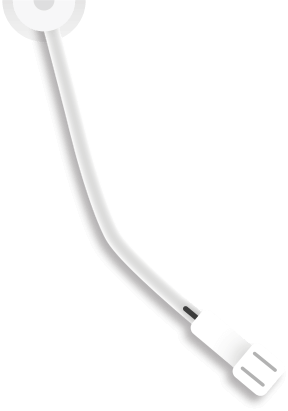
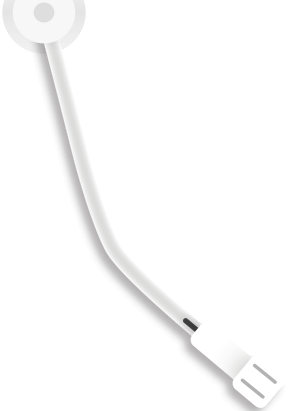
add lyric auto scroll in player page

Changed region(s): [[0.0938, 0.0, 0.9688, 1.0]]

diff --git a/src/player/player.js b/src/player/player.js
@@ -13,21 +13,59 @@ let view = {
     this.dom = document.querySelector(this.el);
   },
   render (data) {
-    let { name = '', singer = '', cover = '#', url = '#' } = data;
+    let { name = '', singer = '', cover = '#', url = '#', lyric='' } = data;    
     this.dom.querySelector('#blurBg').style = `background-image: url(${cover});`;
     this.dom.querySelector('img.pointer').src = imageNeedle;
     this.dom.querySelector('img.ring').src = imageDisc;
     this.dom.querySelector('img.light').src = imageDiscLight;
     this.dom.querySelector('img.cover').src = cover;
     this.dom.querySelector('.song-description>h1').textContent = name + '-' + singer;
+    let regex = /\[([\d :：.  ]+)\](.+)/i;
+    let lyricPDoms = lyric.split('\n').map(content => {
+      let p = document.createElement('p');
+      let matches = content.match(regex);
+      if (matches) {
+        let timeParts = matches[1].split(/[:：]{1}/);
+        let secondsFormat = (timeParts[0] - 0)*60 + (timeParts[1]-0);
+        p.setAttribute('data-time', secondsFormat);
+        p.textContent = matches[2];
+      } else {
+        p.textContent = content;
+      }
+      return p;
+    });
+    this.lyricDom = this.lyricDom || this.dom.querySelector('.lyric>.lines');
+    lyricPDoms.forEach(p => {
+      this.lyricDom.appendChild(p);
+    })
     this.audioDom = this.audioDom || this.createAudio(url);
     this.discContainerDom = this.dom.querySelector('#discContainer');
   },
   createAudio (url) {
     let audio = document.createElement('audio');
     audio.src = url;
+    // audio.setAttribute('controls', 'controls')
     document.body.appendChild(audio);
     return audio;
+  },
+  showLyricBy (time) {
+    this.lyricPDoms = this.lyricPDoms || this.dom.querySelectorAll('.lyric>.lines>p');
+    for (let i = 0; i < this.lyricPDoms.length; i++) {
+      const currentP = this.lyricPDoms[i];
+      const nextP = this.lyricPDoms[i + 1] || { hasError: true, dataset: { time: 24*60*60}};
+      let dataTime = currentP.dataset.time - 0;
+      let nextTime = nextP.dataset.time - 0;
+      if (nextP.hasError || dataTime <= time && time < nextTime) {
+        if (this.activeLyricP === currentP) { return; }
+        this.preLyricP = nextP.hasError ? currentP : this.lyricPDoms[i - 1] || currentP; 
+        this.activeLyricP = currentP;
+        break;
+      }
+      this.preLyricP && this.preLyricP.classList.remove('active');
+      this.activeLyricP.classList.add('active');
+      let moveY = this.preLyricP.offsetTop - this.lyricDom.offsetTop;
+      this.lyricDom.style.transform = 'translateY(' + (-moveY) + 'px)';
+    }
   },
   play () {
     this.audioDom = this.audioDom || this.dom.querySelector('audio');
@@ -45,7 +83,7 @@ let model = {
   init () {
     this.data = { 
       song: {
-        id:'', name: '', singer: '', url: '', cover: ''
+        id:'', name: '', singer: '', url: '', cover: '', lyric: ''
       },
       status: 'paused'
     };
@@ -77,6 +115,14 @@ let controller = {
   bindEvents() {
     this.view.dom.querySelector('.icon-wrapper').addEventListener('click', e => { 
       this.toggleMusic();
+    });
+    this.view.audioDom.addEventListener('ended', e => {
+      this.view.pause();
+      this.model.data.status = 'paused';
+    });
+    this.view.audioDom.addEventListener('timeupdate', e => {
+      let currentTime = e.currentTarget.currentTime;
+      this.view.showLyricBy(currentTime);
     });
   },
   initSongToView (callback) {

diff --git a/src/admin/song-form.js b/src/admin/song-form.js
@@ -31,17 +31,23 @@ let view = {
             <input name="url" type="text" value="{{url}}">
           </label>
         </div>
+        <div class="row">
+          <label>
+            歌词
+            <textarea name="lyric"cols="30" rows="10">{{lyric}}</textarea>
+          </label>
+        </div>
         <div class="row action">
           <button type="submit">保存</button>
         </div>
       </form>
     </div>
   `,
-  init() {
+  init(data) {
     this.dom = document.querySelector(this.el);
-    this.render();
+    this.render(data);
   },
-  render(data = [{ name: '', singer: '', url: '', cover: '' }]) {
+  render(data = [{ name: '', singer: '', url: '', cover: '', lyric:'' }]) {
     data = Array.isArray(data) ? data : [data];
     let html = '';
     data.forEach((song) => {
@@ -84,15 +90,15 @@ let view = {
 };
 
 let model = {
-  data: { name: '', singer: '', url: '', cover: '' },
   init() {
     this.isCreate = true;
     this.Song = AV.Object.extend("Song");
-    this.unsavedFileCount = 0;
+    this.resetData({});
   },
   resetData (data) {
-    this.data = { name: '', singer: '', url: '', cover: '' };
+    this.data = { name: '', singer: '', url: '', cover: '', lyric: '' };
     Object.assign(this.data, data);
+    this.unsavedFileCount = 0;
   },
   create(data) {
     let song = new this.Song();
@@ -134,8 +140,8 @@ let controller = {
   init(view, model) {
     this.view = view;
     this.model = model;
-    this.view.init();
     this.model.init();
+    this.view.init(this.model.data);
     this.formType = 'new';
     this.bindEvents();
     this.bindEventHub();

diff --git a/src/player/player.less b/src/player/player.less
@@ -56,8 +56,8 @@
   align-items: center;
   height: 14vw;
   width: 14vw;
-  background: #1f1e1e;
-  box-shadow: 0px 10px 13px -7px #000000, inset 0px 0px 25px 17px rgba(0,0,0,0.45);
+  background: #343434;
+  box-shadow: inset 0px 0px 17px 19px #000;
   border-radius: 50%;
   // border: 1px solid white;
   .icon {
@@ -68,8 +68,17 @@
 .disc-container .pointer {
   width: 24vw;
   position: absolute;
+  top: -1.1%;
   left: 45vw;
   z-index: 1;
+  transform-origin: 15.69% 0;
+  transform: rotate(-25deg);
+  transition: all .4s;
+}
+.disc-container.playing {
+  .pointer {
+    transform: none;
+  }
 }
 .disc-container .disc {
   display: flex;
@@ -123,7 +132,7 @@
   line-height: 24px;
 }
 .song-description .lines {
-  transition: transform 0.3s;
+  transition: all 0.8s;
 }
 .song-description .lyric {
   height: 72px;

diff --git a/src/index/page-one-playlists.js b/src/index/page-one-playlists.js
@@ -1,5 +1,13 @@
 let view = {
   el: '.page-1 > section.playlists',
+  template: `
+  <li>
+    <div class="cover">
+      <img width=105 src="https://i.loli.net/2017/08/22/599ba7a0aea8b.jpg" alt="封面">
+    </div>
+    <p>两行文字两行文字两行文字两行文字两行文字</p>
+  </li>
+  `,
   init() {
     this.dom = document.querySelector(this.el);
   },

diff --git a/src/index/page-one-songs.js b/src/index/page-one-songs.js
@@ -4,7 +4,7 @@ let view = {
   el: '.page-1 > section.songs',
   template: `
   <li>
-  <h3>{{name}}</h3>
+    <h3>{{name}}</h3>
     <p>
       <svg class="icon icon-sq">
         <use xmlns:xlink="http://www.w3.org/1999/xlink" xlink:href="#icon-sq"></use>
